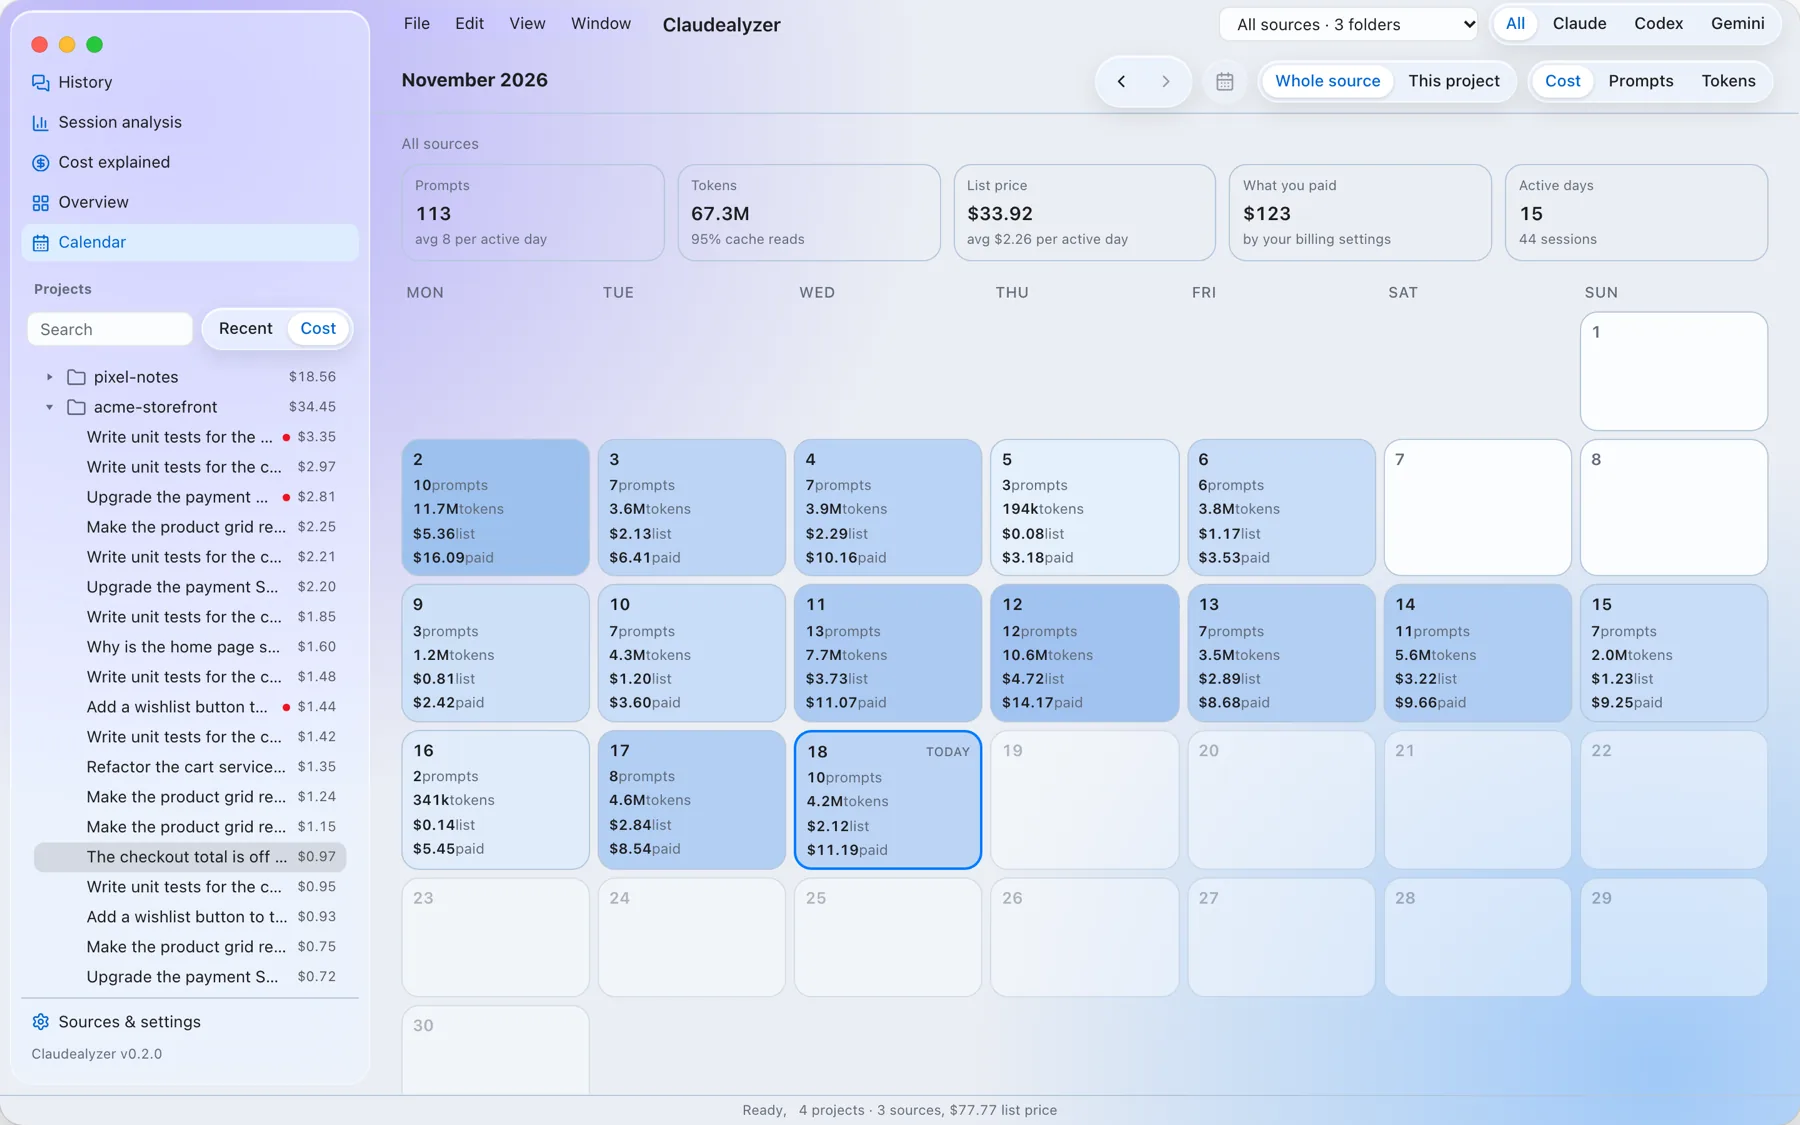
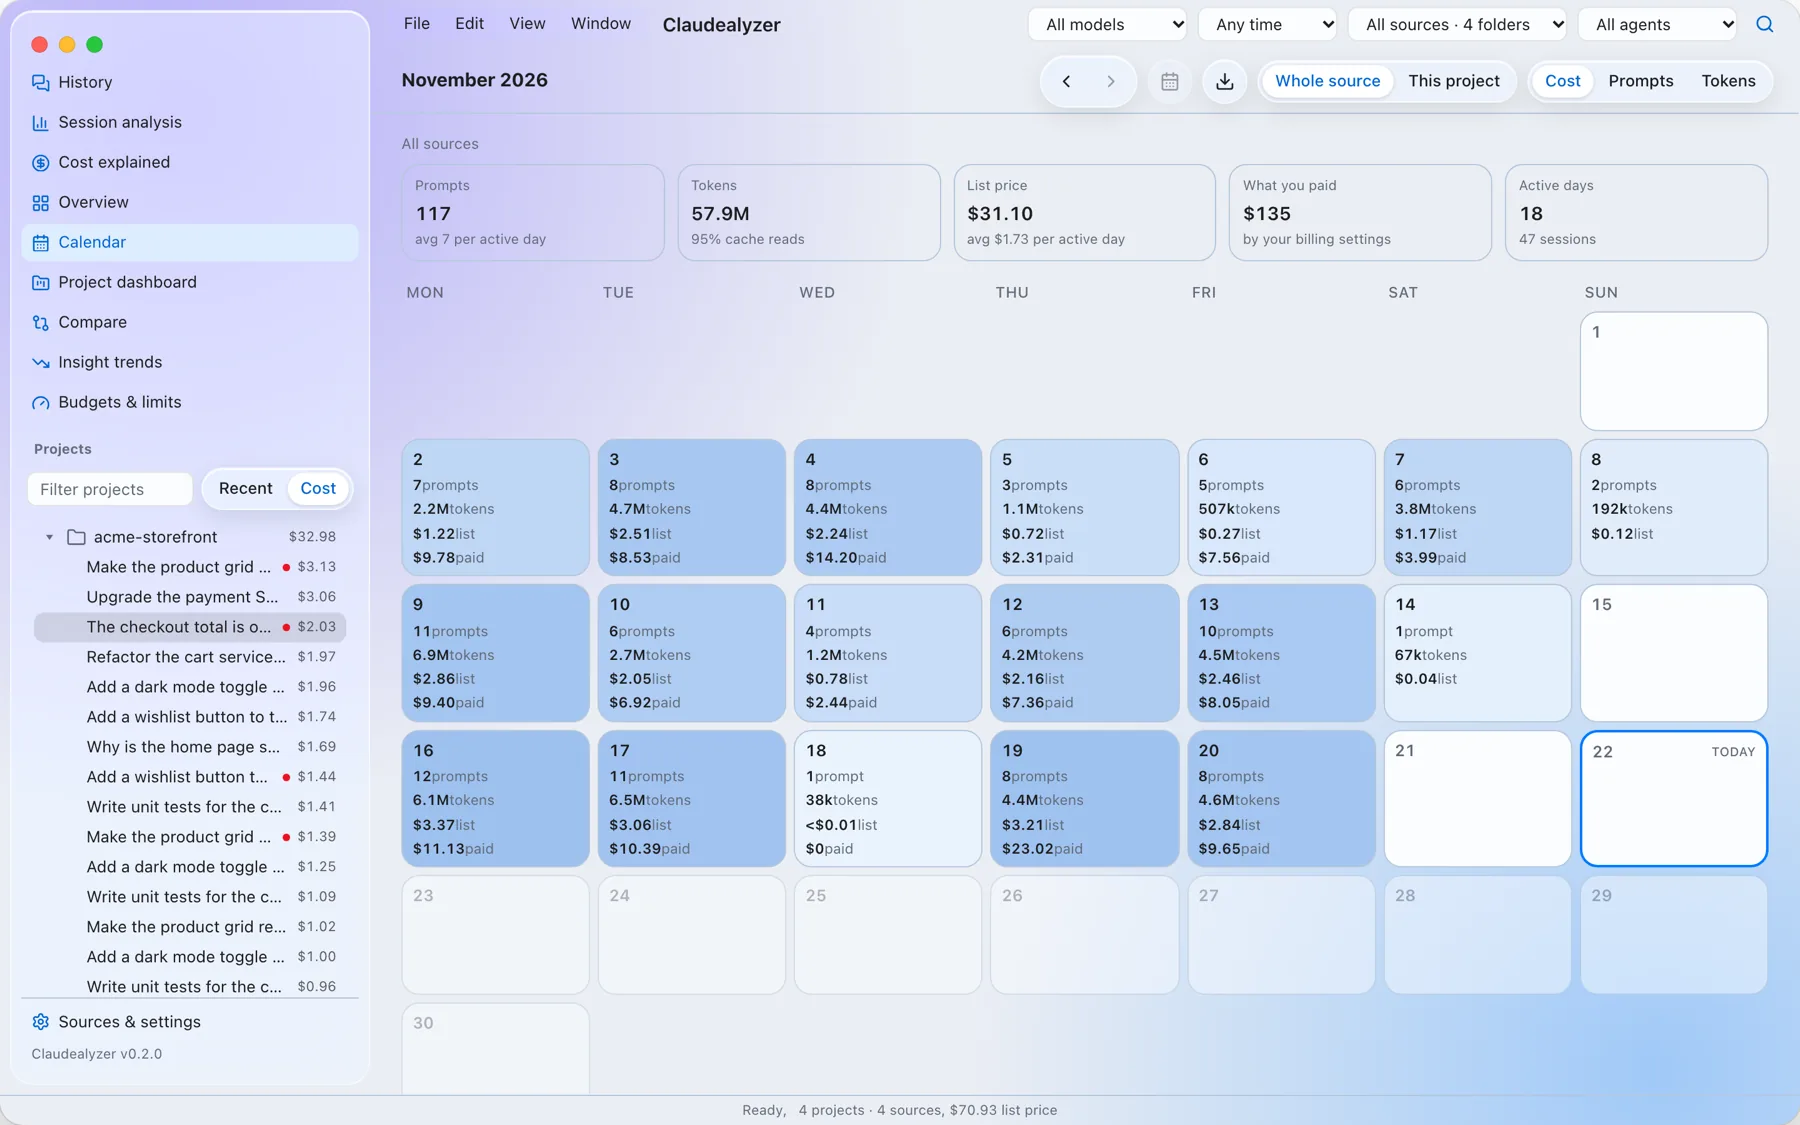
Remake screenshots for 0.2.0 and add the new views to the website
- Demo data now includes OpenCode history; the demo setup adds budgets and usage limits
- New shots: search, project dashboard, compare, insight trends, budgets & limits
- Website: OpenCode in the hero, feature sections for the new views, export notes

diff --git a/docs/index.html b/docs/index.html
@@ -4,7 +4,7 @@
   <meta charset="utf-8">
   <meta name="viewport" content="width=device-width, initial-scale=1">
   <title>Claudealyzer: see where your coding agent's tokens, time and money go</title>
-  <meta name="description" content="A free, local, read-only desktop app for Claude Code, Codex CLI and Gemini CLI history. Cost per session, turn and tool call, ranked insights, and an honest cost breakdown.">
+  <meta name="description" content="A free, local, read-only desktop app for Claude Code, Codex CLI, Gemini CLI and OpenCode history. Cost per session, turn and tool call, search, budgets and usage limits, ranked insights, and an honest cost breakdown.">
   <meta name="color-scheme" content="light dark">
   <meta property="og:title" content="Claudealyzer">
   <meta property="og:description" content="See where your coding agent's tokens, time and money go. Local, read-only, open source.">
@@ -44,7 +44,7 @@
     <p class="eyebrow"><span class="dot"></span> Free &amp; open source · macOS · Windows · Linux</p>
     <h1>See where your coding agent's <span class="grad">tokens, time and money</span> go.</h1>
     <p class="lede">
-      Claudealyzer reads the transcripts that Claude Code, Codex and Gemini CLI already keep on your machine.
+      Claudealyzer reads the transcripts that Claude Code, Codex, Gemini CLI and OpenCode already keep on your machine.
       It shows the cost of every project, session, prompt, tool call and subagent, explains it, and tells you what to change.
     </p>
     <div class="cta">
@@ -55,6 +55,7 @@
       <li><span class="ag ag-claude"></span>Claude Code</li>
       <li><span class="ag ag-codex"></span>Codex CLI / Desktop</li>
       <li><span class="ag ag-gemini"></span>Gemini CLI</li>
+      <li><span class="ag ag-opencode"></span>OpenCode</li>
     </ul>
   </div>
 
@@ -104,7 +105,8 @@
           <li>Thinking, shell commands, file reads and edits, searches, web and MCP calls</li>
           <li>Subagents open inline with their own steps, usage and cost</li>
           <li>Peak context and cost on every turn, plus a red dot on sessions with high findings</li>
-          <li>Sort sessions by recency or by cost, and filter by agent</li>
+          <li>Sort sessions by recency or by cost, and filter by agent, model and date</li>
+          <li>Export a session as Markdown or JSON</li>
         </ul>
       </div>
       <figure class="shot zoomable"><img src="images/history.webp" alt="History view" loading="lazy" width="1800" height="1125"></figure>
@@ -178,6 +180,7 @@
           <li>7 days, 30 days or all time</li>
           <li>Finding badges on every row</li>
           <li>Average and median cost per session</li>
+          <li>Export the table, or daily usage, as CSV</li>
         </ul>
       </div>
       <figure class="shot zoomable"><img src="images/overview.webp" alt="Overview view" loading="lazy" width="1800" height="1125"></figure>
@@ -201,6 +204,75 @@
     </article>
 
     <article class="feature reverse">
+      <div class="feature-text">
+        <span class="tag">Search</span>
+        <h3>Find that one prompt again</h3>
+        <p>Search every transcript at once: prompts, answers, shell commands, file paths and tool calls. Press <kbd>⌘K</kbd> from anywhere.</p>
+        <ul class="ticks">
+          <li>Every word must match; "quoted phrases" match as a whole</li>
+          <li>Narrow it to prompts, answers, commands, files or tools, or to one project</li>
+          <li>Click a hit to open that turn, or the command's step detail</li>
+        </ul>
+      </div>
+      <figure class="shot zoomable"><img src="images/search.webp" alt="Search view" loading="lazy" width="1800" height="1125"></figure>
+    </article>
+
+    <article class="feature">
+      <div class="feature-text">
+        <span class="tag">Project dashboard</span>
+        <h3>One project, all of it</h3>
+        <p>What a project cost over time, which sessions were the most expensive, and which problems keep coming back.</p>
+        <ul class="ticks">
+          <li>Cost per agent by day or by week, for 30 days, 90 days or all time</li>
+          <li>Most-edited files and cost per model</li>
+          <li>Recurring findings: how many sessions each rule fired in, and what it cost</li>
+        </ul>
+      </div>
+      <figure class="shot zoomable"><img src="images/project.webp" alt="Project dashboard" loading="lazy" width="1800" height="1125"></figure>
+    </article>
+
+    <article class="feature reverse">
+      <div class="feature-text">
+        <span class="tag">Compare</span>
+        <h3>This week vs. last week</h3>
+        <p>Put two sessions, or two periods, side by side. Every change is marked better or worse.</p>
+        <ul class="ticks">
+          <li>Cost, cost per prompt, tokens, cache hit, peak context, subagents and findings</li>
+          <li>This week vs last week, this month vs last month, or your own ranges</li>
+          <li>Right-click two sessions in the sidebar to compare them</li>
+        </ul>
+      </div>
+      <figure class="shot zoomable"><img src="images/compare.webp" alt="Compare view with two periods" loading="lazy" width="1800" height="1125"></figure>
+    </article>
+
+    <article class="feature">
+      <div class="feature-text">
+        <span class="tag">Insight trends</span>
+        <h3>Are the suggestions working?</h3>
+        <p>Week by week, how often each rule fires and what it costs, so you can see whether a change in how you work paid off.</p>
+        <ul class="ticks">
+          <li>Share of sessions with a finding and the estimated impact per week</li>
+          <li>The last 4 weeks against the 4 before, per rule: improving, steady or worse</li>
+        </ul>
+      </div>
+      <figure class="shot zoomable"><img src="images/trends.webp" alt="Insight trends view" loading="lazy" width="1800" height="1125"></figure>
+    </article>
+
+    <article class="feature reverse">
+      <div class="feature-text">
+        <span class="tag">Budgets &amp; limits</span>
+        <h3>Know before you run out</h3>
+        <p>Budgets for a day, a week or a month, and your subscription's 5-hour and weekly windows, rebuilt from your history.</p>
+        <ul class="ticks">
+          <li>For everything, one source or one project, in list price or in what you pay</li>
+          <li>A projection to the end of the period at the current pace</li>
+          <li>Alerts in the app, and optionally as system notifications, when a budget, a limit or a single session gets expensive</li>
+        </ul>
+      </div>
+      <figure class="shot zoomable"><img src="images/budgets.webp" alt="Budgets and limits view" loading="lazy" width="1800" height="1125"></figure>
+    </article>
+
+    <article class="feature">
       <div class="feature-text">
         <span class="tag">Sources &amp; settings</span>
         <h3>Your folders, your billing, your prices</h3>
@@ -251,7 +323,7 @@
       <p>No magic multipliers. Every figure comes from the tokens in your transcripts and a pricing table you can see and edit.</p>
     </header>
     <ol class="steps">
-      <li><h4>Each API response is counted once</h4><p>Claude by <code>message.id</code>, Codex by <code>response_id</code>, Gemini by message id, even when a response shows up several times in a transcript.</p></li>
+      <li><h4>Each API response is counted once</h4><p>Claude by <code>message.id</code>, Codex by <code>response_id</code>, Gemini by message id, OpenCode by step, even when a response shows up several times in a transcript.</p></li>
       <li><h4>Usage is normalised</h4><p>Uncached input, cache write (5 min / 1 h), cache read and output, including thinking. For Codex and Gemini, uncached = input − cached.</p></li>
       <li><h4>List price uses the rate on that day</h4><p>Σ tokens × rate per model, using the rate that applied on the day of each request. Unknown models are shown as <em>price unknown</em>, never as $0.</p></li>
       <li><h4>Your cost follows your billing</h4><p>API key: list price minus your discount. Subscription or seat: plan fee × this usage's share of the billing period. Free tier: $0.</p></li>
@@ -346,7 +418,7 @@
   <div class="wrap footer-inner">
     <div class="brand"><img src="images/icon.webp" alt="" width="22" height="22"> Claudealyzer</div>
     <p>Claudealyzer is an independent project. It is not affiliated with, endorsed by or sponsored by Anthropic, OpenAI or Google.
-      Claude, Claude Code, Codex and Gemini are trademarks of their respective owners. Screenshots show generated demo data.</p>
+      Claude, Claude Code, Codex, Gemini and OpenCode are trademarks of their respective owners. Screenshots show generated demo data.</p>
     <p><a data-repo="" href="#">GitHub</a> · <a data-repo="/blob/main/LICENSE" href="#">MIT License</a> · <a href="https://github.com/Spartan-Native/spartan-native">Spartan Native</a> · <a href="#top">Back to top ↑</a></p>
   </div>
 </footer>

diff --git a/docs/site.css b/docs/site.css
@@ -79,7 +79,7 @@ h1, h2, h3, h4 { line-height: 1.15; letter-spacing: -.02em; margin: 0; }
 .agents { list-style: none; display: flex; justify-content: center; gap: 22px; padding: 0; margin: 28px 0 0; color: var(--muted); font-size: .92rem; flex-wrap: wrap; }
 .agents li { display: inline-flex; align-items: center; gap: 8px; }
 .ag { width: 9px; height: 9px; border-radius: 50%; }
-.ag-claude { background: #2f7ae5; } .ag-codex { background: #ef6a33; } .ag-gemini { background: #19a974; }
+.ag-claude { background: #2f7ae5; } .ag-codex { background: #ef6a33; } .ag-gemini { background: #19a974; } .ag-opencode { background: #e3a008; }
 
 .hero-shot { margin-top: 56px; }
 .switcher { display: flex; justify-content: center; gap: 12px; margin-bottom: 18px; flex-wrap: wrap; }

diff --git a/scripts/screenshots/gen_mock.py b/scripts/screenshots/gen_mock.py
@@ -3,12 +3,13 @@
 
 Usage: gen_mock.py <fake_home> [--today YYYY-MM-DD]
 
-Writes Claude Code, Codex CLI and Gemini CLI history under <fake_home> (~/.claude, ~/.codex, ~/.gemini).
+Writes Claude Code, Codex CLI, Gemini CLI and OpenCode history under <fake_home> (~/.claude, ~/.codex, ~/.gemini,
+~/.local/share/opencode/opencode.db).
 Everything is invented: user "demo", made-up projects, prompts and files. The random seed is fixed, so
 every run makes the same sessions; only the dates follow --today (default: the current date), so the
 Calendar's "today" always has data.
 """
-import argparse, json, os, random, uuid
+import argparse, json, os, random, sqlite3, uuid
 from datetime import datetime, timedelta, timezone
 
 ap = argparse.ArgumentParser(description=__doc__.splitlines()[0])
@@ -272,6 +273,91 @@ for day in range(40, -1, -1):
             codex_session(proj, start)
         else:
             gemini_session(proj, start)
+
+
+
+# ---------------- OpenCode ----------------
+# Its own random generator, so the Claude, Codex and Gemini sessions above stay the same as before.
+orn = random.Random(7)
+
+
+def opencode_db():
+    path = os.path.join(HOME, ".local", "share", "opencode", "opencode.db")
+    os.makedirs(os.path.dirname(path), exist_ok=True)
+    if os.path.exists(path):
+        os.remove(path)
+    db = sqlite3.connect(path)
+    db.executescript("""
+    CREATE TABLE session_v2 (id text PRIMARY KEY, project_id text NOT NULL, parent_id text, slug text NOT NULL, directory text NOT NULL,
+      title text, version text NOT NULL, time_created integer NOT NULL, time_updated integer NOT NULL);
+    CREATE TABLE session_message (id text PRIMARY KEY, session_id text NOT NULL, type text NOT NULL, seq integer NOT NULL,
+      time_created integer NOT NULL, time_updated integer NOT NULL, data text NOT NULL);
+    CREATE TABLE session_part (message_id text NOT NULL, session_id text NOT NULL, ordinal integer NOT NULL, type text NOT NULL,
+      call_id text, time_created integer NOT NULL, time_updated integer NOT NULL, data text NOT NULL);
+    """)
+    return db
+
+
+def ms(t):
+    return int(t.timestamp() * 1000)
+
+
+def opencode_session(db, proj, start, n):
+    meta = PROJECTS[proj]
+    cwd = f"{USER_HOME}/code/{proj}"
+    sid = f"ses_{orn.getrandbits(48):012x}"
+    model = orn.choice(["claude-sonnet-5-5", "claude-sonnet-5-5", "gpt-6-luna"])
+    prompts = orn.sample(meta["prompts"], orn.randint(1, 3))
+    t = start
+    seq = 0
+    ctx = 9000
+    for i, p in enumerate(prompts):
+        t += timedelta(minutes=orn.uniform(1, 5))
+        mid = f"msg_{sid}_{i}u"
+        db.execute("INSERT INTO session_message VALUES (?,?,?,?,?,?,?)", (mid, sid, "user", seq, ms(t), ms(t), json.dumps({"time": {"created": ms(t)}})))
+        db.execute("INSERT INTO session_part VALUES (?,?,?,?,?,?,?,?)", (mid, sid, 0, "text", None, ms(t), ms(t), json.dumps({"text": p})))
+        seq += 1
+        a0 = t + timedelta(seconds=2)
+        aid = f"msg_{sid}_{i}a"
+        parts = [("reasoning", None, {"text": "Look at the relevant code first, then make the change and run the tests."})]
+        cost = 0.0
+        for k in range(orn.randint(2, 5)):
+            t += timedelta(seconds=orn.uniform(5, 40))
+            f = orn.choice(meta["files"])
+            tool, inp = orn.choice([("read", {"filePath": f"{cwd}/{f}"}), ("edit", {"filePath": f"{cwd}/{f}"}), ("bash", {"command": meta["test"]}), ("grep", {"pattern": "TODO"})])
+            end = t + timedelta(seconds=orn.uniform(0.2, 25 if tool == "bash" else 1))
+            parts.append(("tool", f"call_{k}", {"tool": tool, "callID": f"call_{k}", "state": {"status": "completed", "input": inp,
+                          "output": "ok" if tool != "bash" else "PASS (42 tests)", "time": {"start": ms(t), "end": ms(end)}}}))
+            ctx += orn.randint(1500, 6000)
+            tok = {"input": orn.randint(200, 1500), "output": orn.randint(150, 900), "reasoning": orn.randint(0, 300),
+                   "cache": {"read": ctx, "write": orn.randint(1000, 5000)}}
+            c = round((tok["input"] * 3 + tok["output"] * 15 + ctx * 0.3 + tok["cache"]["write"] * 3.75) / 1e6, 4)
+            cost += c
+            t = end
+            parts.append(("step-finish", None, {"tokens": tok, "cost": c, "time": {"end": ms(t)}}))
+        parts.insert(len(parts) - 1, ("text", None, {"text": orn.choice(ANSWERS).format(f=meta["files"][0])}))
+        db.execute("INSERT INTO session_message VALUES (?,?,?,?,?,?,?)", (aid, sid, "assistant", seq, ms(a0), ms(t),
+                   json.dumps({"time": {"created": ms(a0), "completed": ms(t)}, "modelID": model, "providerID": "anthropic" if model.startswith("claude") else "openai",
+                               "cost": round(cost, 4), "path": {"cwd": cwd, "root": cwd}})))
+        for k, (typ, call, data) in enumerate(parts):
+            db.execute("INSERT INTO session_part VALUES (?,?,?,?,?,?,?,?)", (aid, sid, k, typ, call, ms(a0) + k, ms(a0) + k, json.dumps(data)))
+        seq += 1
+    db.execute("INSERT INTO session_v2 VALUES (?,?,?,?,?,?,?,?,?)", (sid, "prj_" + proj, None, f"demo-{n}", cwd, prompts[0][:60], "1.4.2", ms(start), ms(t)))
+
+
+oc = opencode_db()
+n = 0
+for day in range(40, -1, -1):
+    if orn.random() < 0.6:
+        continue
+    d = TODAY - timedelta(days=day)
+    start = d.replace(hour=orn.randint(9, 18), minute=orn.randint(0, 59), second=0)
+    if start > TODAY:
+        start = TODAY - timedelta(hours=3)
+    n += 1
+    opencode_session(oc, orn.choice(["weather-api", "pixel-notes", "weather-api"]), start, n)
+oc.commit()
+oc.close()
 
 w(os.path.join(HOME, ".codex", "session_index.jsonl"), codex_index)
 os.makedirs(os.path.join(HOME, ".gemini"), exist_ok=True)

diff --git a/scripts/screenshots/README.md b/scripts/screenshots/README.md
@@ -16,8 +16,8 @@ Playwright and its Chromium are installed into this folder on the first run.
 
 | File | Role |
 | --- | --- |
-| `gen_mock.py` | Writes fake Claude Code, Codex CLI and Gemini CLI history for user `demo` and four made-up projects (`acme-storefront`, `weather-api`, `pixel-notes`, `infra-terraform`) into a temporary HOME. The seed is fixed, so the sessions are the same every run; only the dates move. |
-| `run.sh` | Builds the app in Wails server mode (the UI served over HTTP, no window), starts it with that HOME, gives the sources demo plans (Claude Max $100, Codex Plus $20, Gemini free), runs `shots.mjs`, then scales the PNGs to 1800 px and writes WebP to `docs/images/`, plus `history.png` for `og:image` and GitHub's social preview. |
+| `gen_mock.py` | Writes fake Claude Code, Codex CLI, Gemini CLI and OpenCode history for user `demo` and four made-up projects (`acme-storefront`, `weather-api`, `pixel-notes`, `infra-terraform`) into a temporary HOME. The seed is fixed, so the sessions are the same every run; only the dates move. |
+| `run.sh` | Builds the app in Wails server mode (the UI served over HTTP, no window), starts it with that HOME, gives the sources demo plans (Claude Max $100 with demo usage limits, Codex Plus $20, Gemini free, OpenCode on an API key) and demo budgets, runs `shots.mjs`, then scales the PNGs to 1800 px and writes WebP to `docs/images/`, plus `history.png` for `og:image` and GitHub's social preview. |
 | `shots.mjs` | Drives the app with Playwright at 1440×900 @2x: opens *The checkout total is off by one cent…* in `acme-storefront` (sorted by cost) and takes each view in the macOS 26, Windows 11 and GNOME looks, light and dark. It fails if a real filesystem path is visible in the UI. |
 
 ## After a UI change
